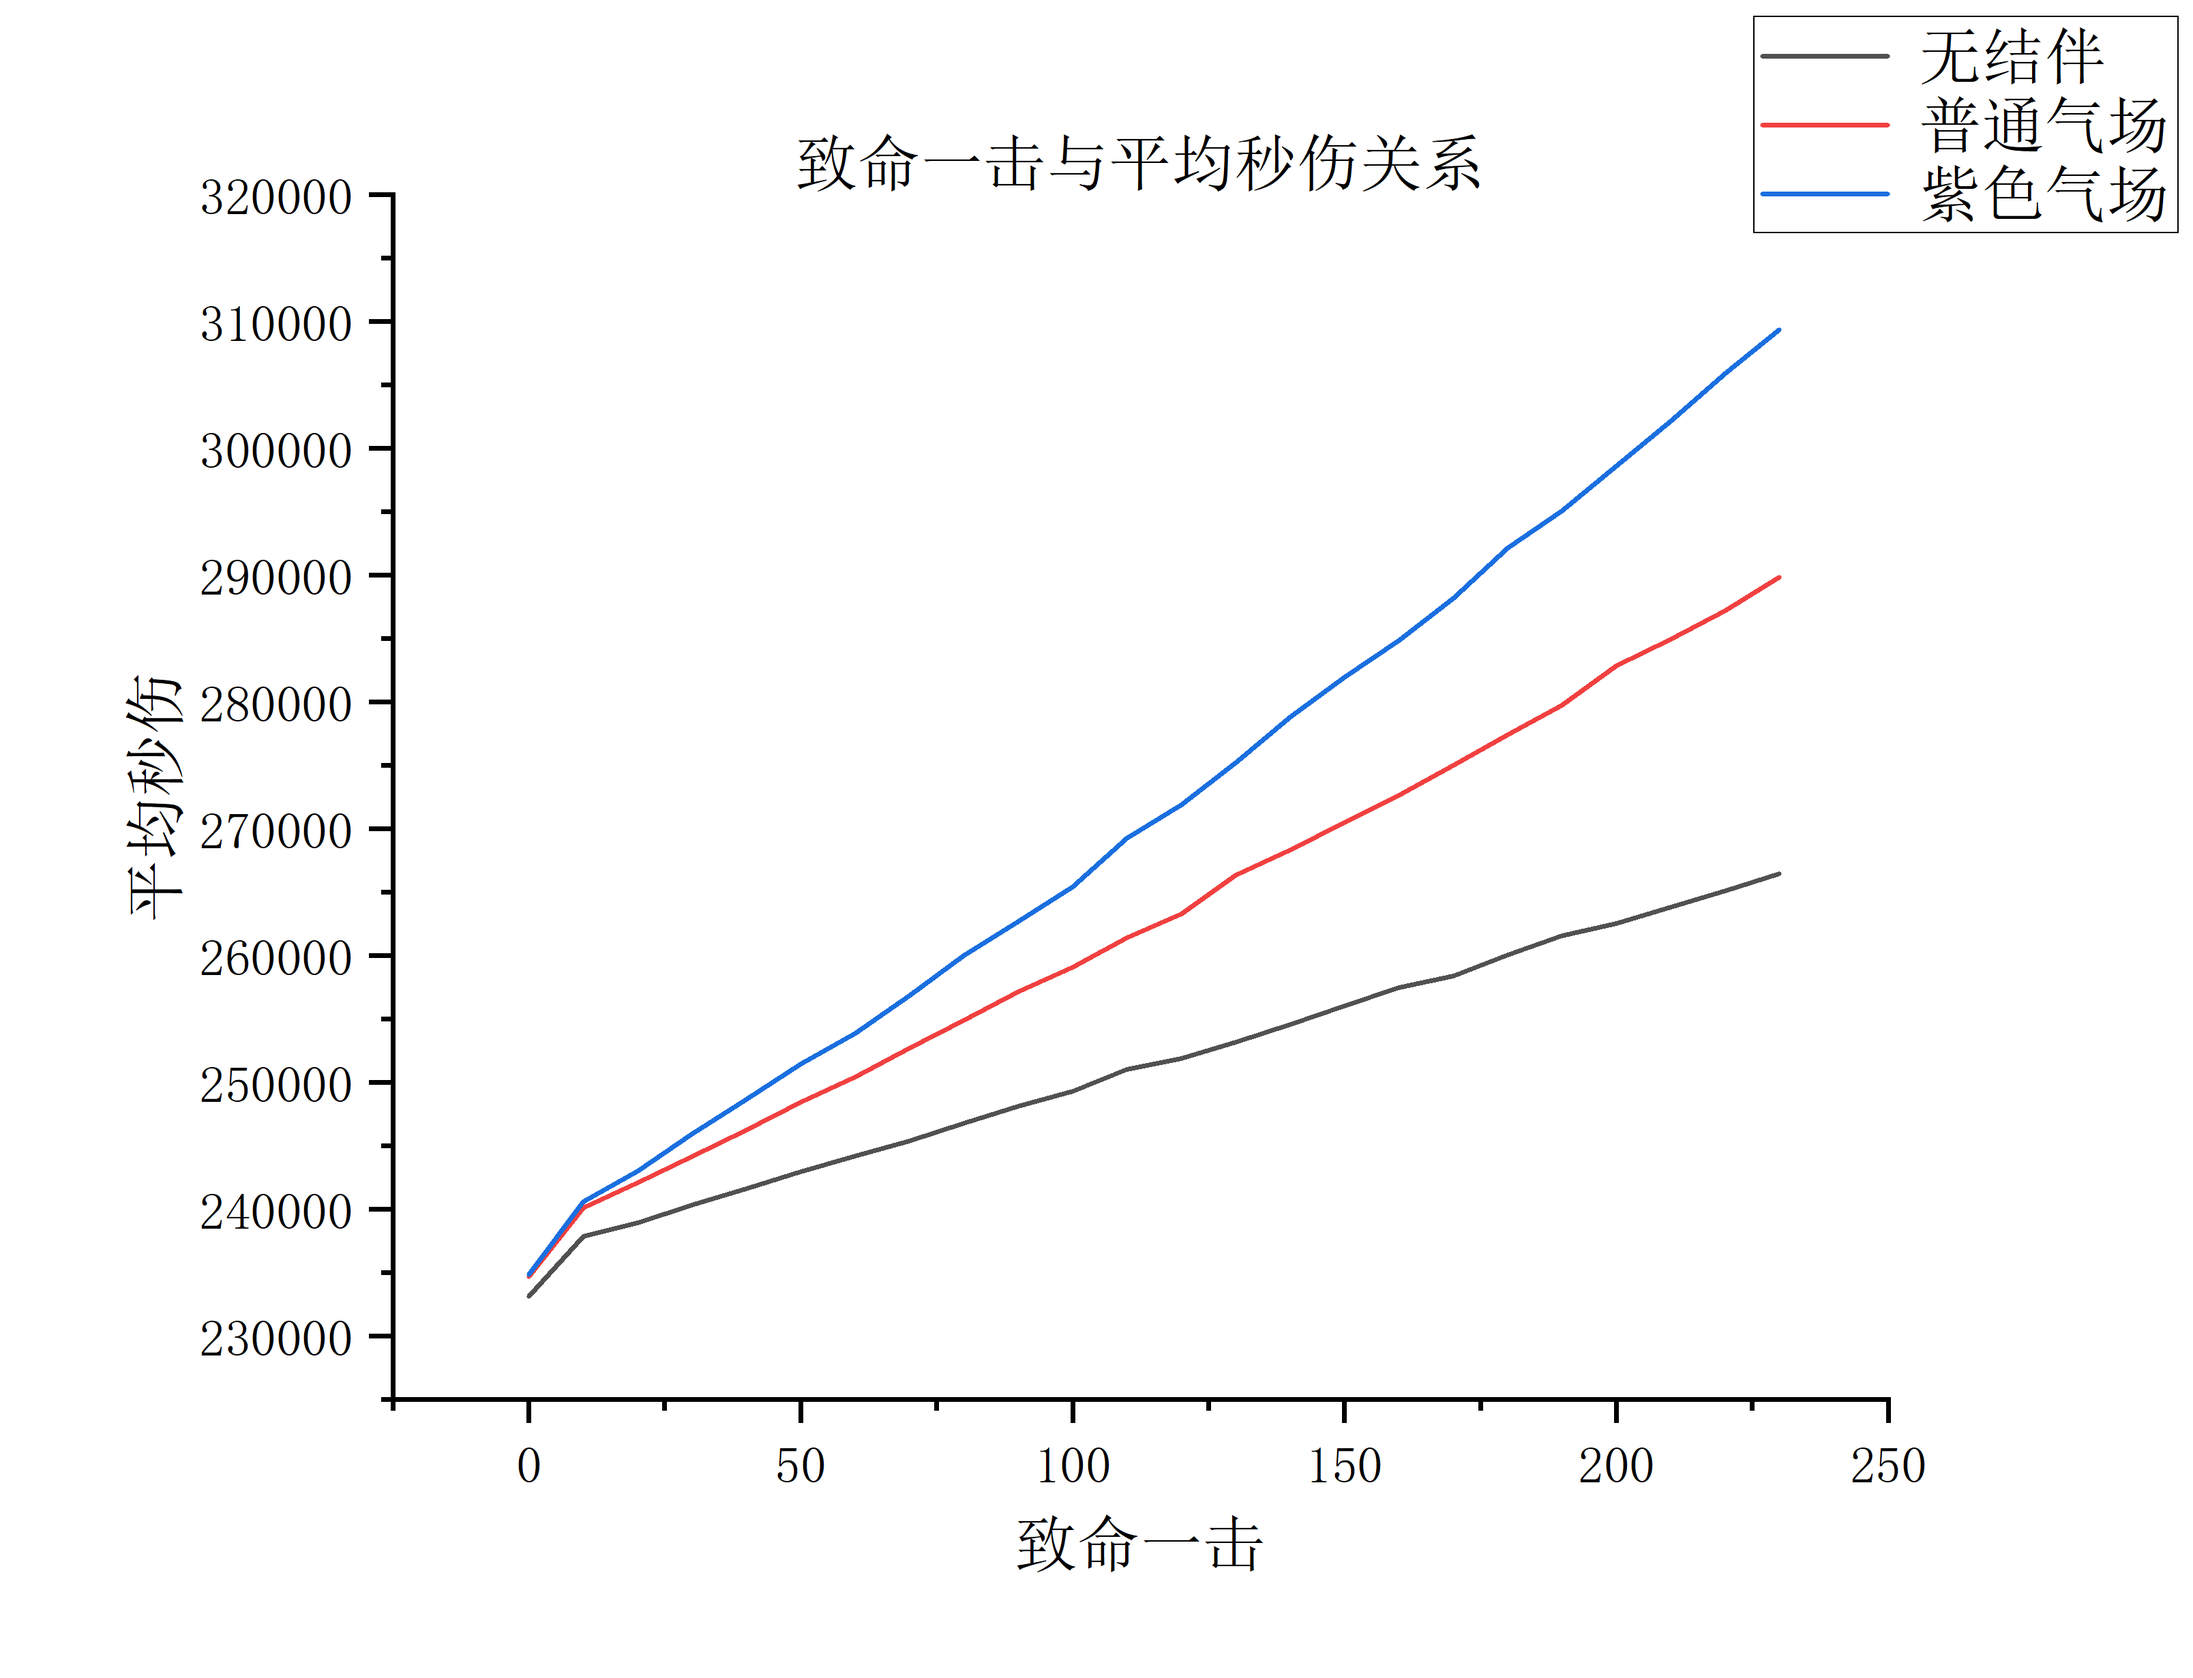
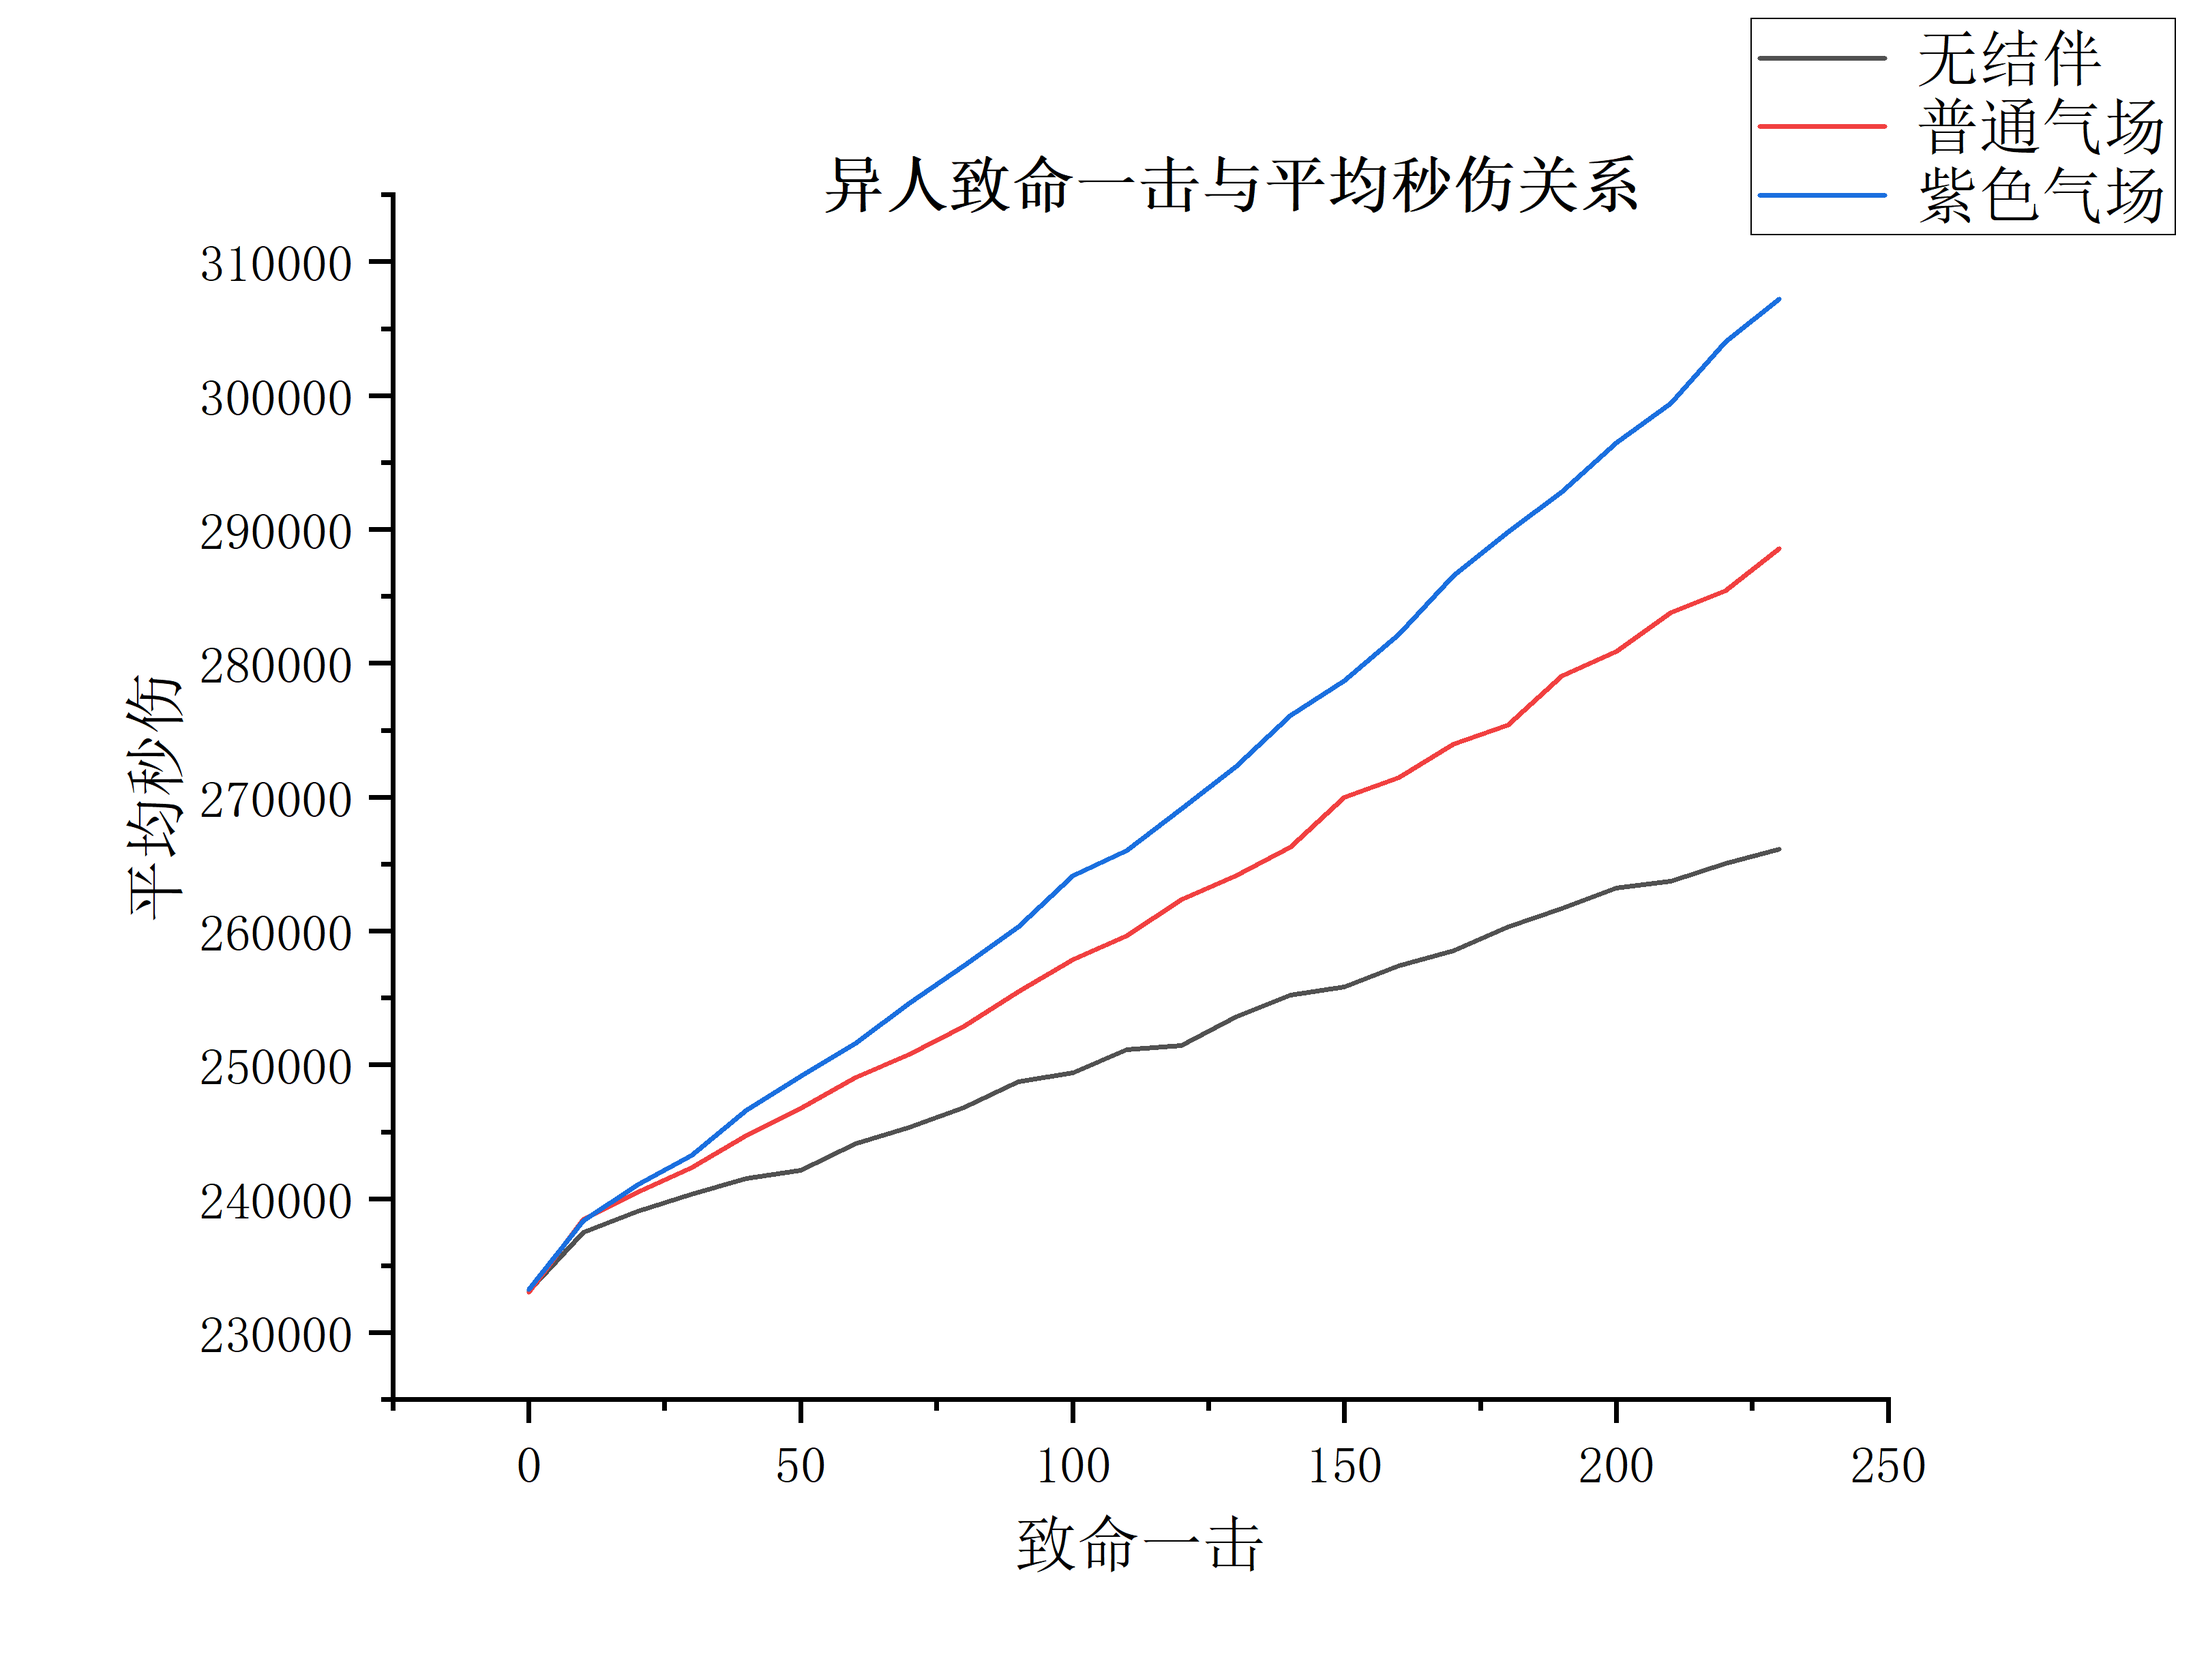
修正普通气场和紫色气场文字，以及修正天生鬼灵39不增加致命伤

diff --git a/articles/PVE下致命对异人的伤害收益分析.html b/articles/PVE下致命对异人的伤害收益分析.html
@@ -76,7 +76,7 @@
 
 <p>作者：[德库拉]</p>
 <h2 id="前言">前言</h2>
-<p>我们知道提高致命对伤害的提升有显著的效果，可是到了异人这个职业，却颇有争议。主要原因是无结伴的情况下异人的鬼灵不继承人物的致命，而结伴<code>傲苍生</code>点满30级普通气场也只能继承人物30%致命，紫色气场才能继承人物50%致命。
+<p>我们知道提高致命对伤害的提升有显著的效果，可是到了异人这个职业，却颇有争议。主要原因是无结伴的情况下异人的鬼灵不继承人物的致命，而结伴<code>傲苍生</code>点满30级普通气场也只能继承人物34%致命，紫色气场才能继承人物54%致命。
 从字面上看确实很低，而且异人并没有包含提升自身致命的技能，所以提升致命非常困难，最终致命路线变成<code>氪金</code>大佬的专属，所以很有必要探索下致命对异人的影响。</p>
 <h2 id="核心技能">核心技能</h2>
 <p>老规矩，先梳洗下异人几个核心技能的伤害计算公式，为了快速奔向主题，我会直接跳过推理过程，直接展示公式，如果有问题，请不吝指出。</p>
@@ -211,11 +211,11 @@
 </code></pre>
 <p>鬼灵的攻击频率是<code>1</code>秒<code>1</code>次，人物<code>0.7</code>秒释放一次碧血诀，血饲有空挡就放，所以上面的释放符合预期，接下来就开始收集数据分析</p>
 <h3 id="无结伴143攻速下致命和异人平均攻击的关系">无结伴1.43攻速下致命和异人平均攻击的关系</h3>
-<p><img src="images/pvexzmdyrsy/yr0.0.png" alt="Yr0.0"></p>
+<p><img src="images/pvexzmdyrsy/qcwjb.png" alt="Qcwjb"></p>
 <h3 id="普通气场143攻速下致命和异人平均攻击的关系">普通气场1.43攻速下致命和异人平均攻击的关系</h3>
-<p><img src="images/pvexzmdyrsy/yr0.3.png" alt="Yr0.3"></p>
+<p><img src="images/pvexzmdyrsy/qc0.34.png" alt="Qc0.34"></p>
 <h3 id="紫色气场143攻速下致命和异人平均攻击的关系">紫色气场1.43攻速下致命和异人平均攻击的关系</h3>
-<p><img src="images/pvexzmdyrsy/yr0.5.png" alt="Yr0.5"></p>
+<p><img src="images/pvexzmdyrsy/qc0.54.png" alt="Qc0.34"></p>
 <p>为了更直观看出三者的差异，我们挑选平均法攻为<code>4万</code>来放在一起对比</p>
 <p><img src="images/pvexzmdyrsy/yrqczh.png" alt="Yrqczh"></p>
 <h2 id="结论">结论</h2>
